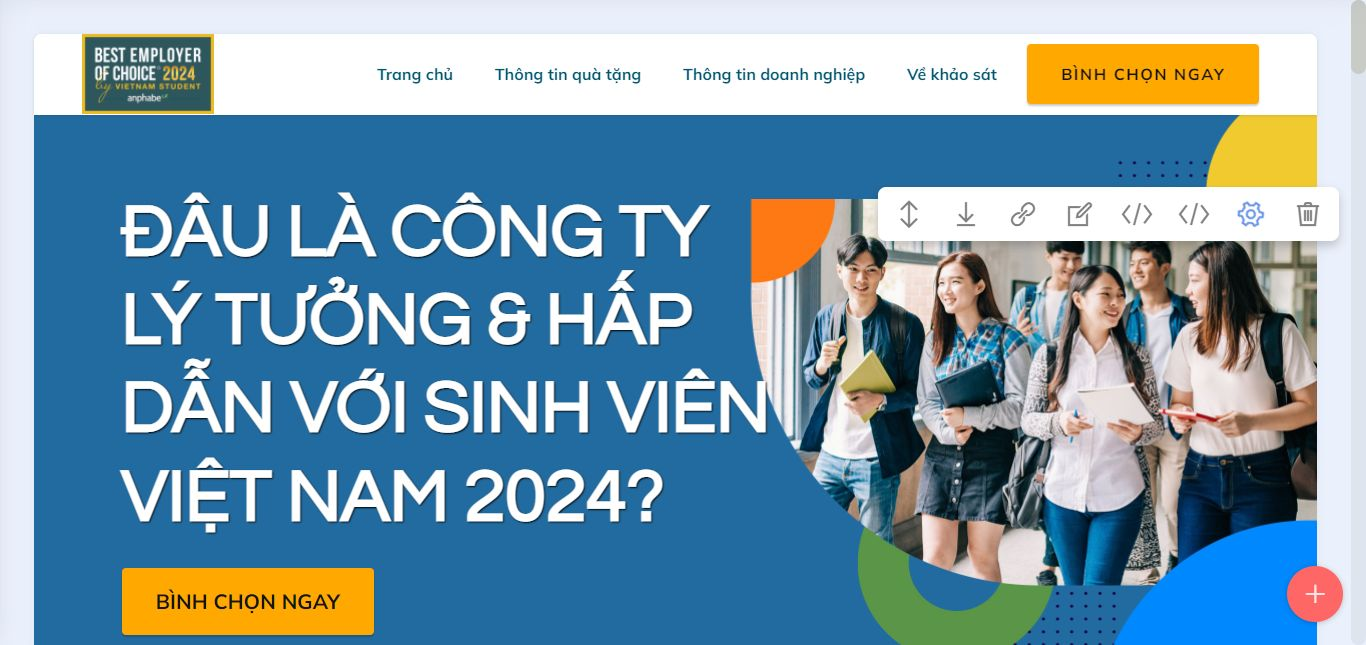
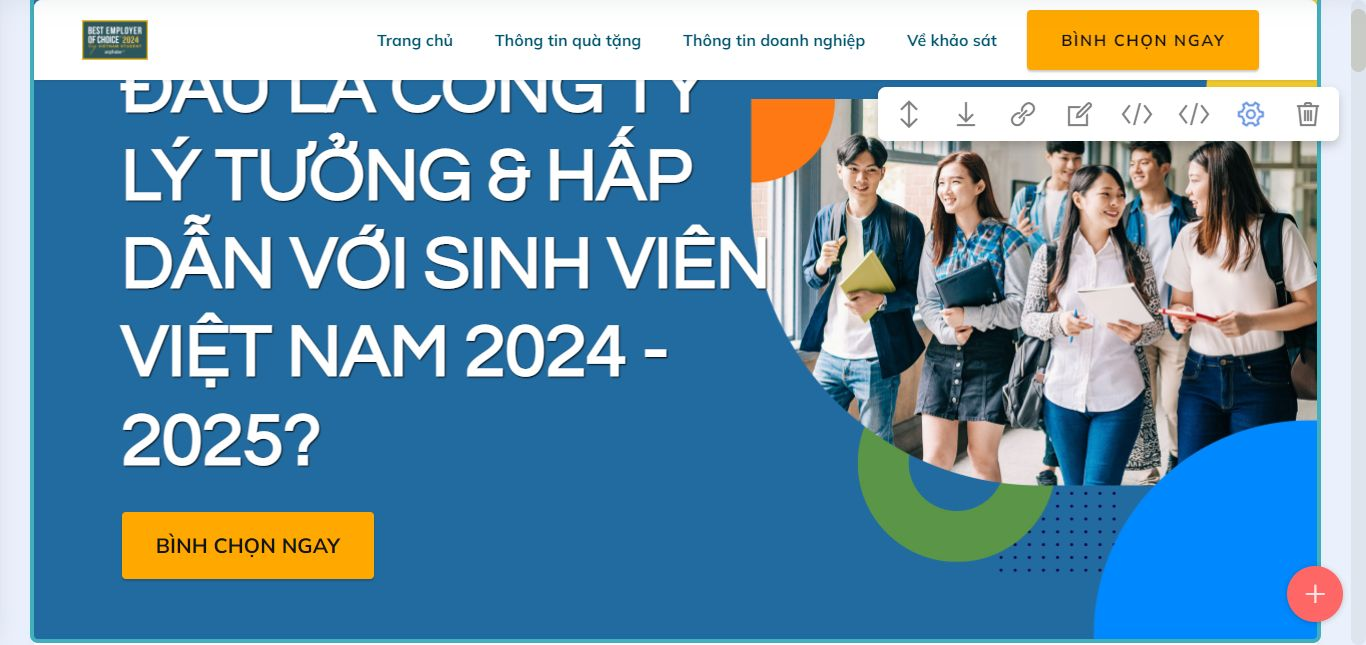
up

diff --git a/2024/employerofchoice/index.html b/2024/employerofchoice/index.html
@@ -134,7 +134,7 @@ height="0" width="0" style="display:none;visibility:hidden"></iframe></noscript>
     <div class="container">
         <div class="row">
             <div class="col-12 col-lg-8 background-wrapper">
-                <h1 class="mbr-section-title mbr-fonts-style mb-3 display-1"><strong>ĐÂU LÀ CÔNG TY </strong><br><strong>LÝ TƯỞNG &amp; HẤP DẪN&nbsp;</strong><strong>VỚI SINH VIÊN VIỆT NAM&nbsp;</strong><strong>2024?</strong></h1>
+                <h1 class="mbr-section-title mbr-fonts-style mb-3 md-e display-1"><strong>ĐÂU LÀ CÔNG TY&nbsp;</strong><strong><br></strong><strong>LÝ TƯỞNG &amp; HẤP DẪN&nbsp;</strong><strong><br></strong><strong>VỚI SINH VIÊN&nbsp;</strong><strong>VIỆT&nbsp;</strong><strong>NAM&nbsp;</strong><strong><br></strong><strong>2024 - 2025?</strong></h1>
                 
                 
                 <div class="mbr-section-btn"><a class="btn btn-primary display-4" href="https://employerofchoice.vietnambestplacestowork.com">BÌNH CHỌN NGAY</a></div>
@@ -181,6 +181,22 @@ height="0" width="0" style="display:none;visibility:hidden"></iframe></noscript>
                     </div>
                 </div>
             </div>
+            <div class="row mt-4 d-flex justify-content-center">  
+            <div class="item features-image сol-12 col-md-6 col-lg-6 mb-4">
+                <div class="item-wrapper">
+                    <div class="background-item-1">
+                        <div class="item-img">
+                            <a href="https://survey.vietnambestplacestowork.com/"><img src="assets/images/spgift-webbanner.png" alt="ƯU ĐÃI GIẢM 50% tại Saigon Petro"></a>
+                        </div>
+                        <div class="item-content">
+                            <p class="mbr-text mbr-fonts-style mt-3 display-7">Voucher</p>
+                            <h5 class="item-title mbr-fonts-style caption-gift display-7">ƯU ĐÃI 50% sản phẩm dầu nhớt AP SAIGON PETRO khi thanh toán trên Shopee</h5>     
+                            <div class="mbr-section-btn mt-2"><a href="https://survey.vietnambestplacestowork.com/" class="btn item-btn btn-info-outline display-7" target="_blank">Nhận quà ngay</a></div>
+                        </div>
+                    </div>
+                </div>
+            </div>
+        </div>  
             
             
             
@@ -261,7 +277,7 @@ height="0" width="0" style="display:none;visibility:hidden"></iframe></noscript>
                             <span class="mbr-iconfont fas fa-thumbs-up"></span>
                         </div>
                         <h5 class="card-title mbr-fonts-style display-5"><strong>Quyết định danh sách những nơi làm việc hấp dẫn nhất với sinh viên Việt Nam 2024</strong></h5>
-                        <p class="card-text mbr-fonts-style display-7">Câu trả lời của bạn đóng góp vào những phân tích quan trọng, giúp doanh nghiệp định hướng chiến lược xây dựng môi trường làm việc phù hợp với thế hệ trẻ, đồng thời quyết định kết quả danh sách Thương hiệu nhà tuyển dụng hấp dẫn nhất với sinh viên Việt Nam 2024.</p>
+                        <p class="card-text mbr-fonts-style display-7">Câu trả lời của bạn đóng góp vào những phân tích quan trọng, giúp doanh nghiệp định hướng chiến lược xây dựng môi trường làm việc phù hợp với thế hệ trẻ, đồng thời quyết định kết quả danh sách Thương Hiệu Nhà Tuyển Dụng Hấp Dẫn Nhất Với Sinh Viên Việt Nam 2024 - 2025.</p>
                     </div>
                 </div>
             </div>
@@ -307,7 +323,7 @@ height="0" width="0" style="display:none;visibility:hidden"></iframe></noscript>
         <div class="row">
             <div class="col-12 col-lg-7">
                 <h1 class="mbr-section-title mbr-fonts-style mb-3 display-2"><strong>Về khảo sát</strong></h1>
-                <p class="mbr-text mbr-fonts-style mb-4 display-7">Năm 2024, Anphabe tiếp tục thực hiện chương trình Khảo sát Thương Hiệu Nhà Tuyển Dụng Hấp Dẫn Nhất Với Sinh Viên Việt Nam nhằm đánh giá sức hấp dẫn của các doanh nghiệp tại thị trường Việt Nam với các bạn sinh viên trong tình hình mới. Bên cạnh đó, khảo sát cũng hi vọng nhận được chia sẻ chi tiết hơn về những thay đổi trong quá trình định hướng, các nguyện vọng và kỳ vọng của sinh viên Việt Nam cũng như sự sẵn sàng cho công việc đầu tiên.
+                <p class="mbr-text mbr-fonts-style mb-4 display-7">Năm 2024 - 2025, Anphabe tiếp tục thực hiện chương trình Khảo sát Thương Hiệu Nhà Tuyển Dụng Hấp Dẫn Nhất Với Sinh Viên Việt Nam nhằm đánh giá sức hấp dẫn của các doanh nghiệp tại thị trường Việt Nam với các bạn sinh viên trong tình hình mới. Bên cạnh đó, khảo sát cũng hi vọng nhận được chia sẻ chi tiết hơn về những thay đổi trong quá trình định hướng, các nguyện vọng và kỳ vọng của sinh viên Việt Nam cũng như sự sẵn sàng cho công việc đầu tiên.
                 </p><p class="mbr-text mbr-fonts-style mb-4 display-7">Câu trả lời của bạn sẽ đóng góp vào những phân tích quan trọng và cung cấp góc nhìn quý báu giúp doanh nghiệp xây dựng chiến lược và môi trường làm việc thu hút hơn cho thế hệ nhân tài trẻ, đồng thời quyết định kết quả danh sách những nơi làm việc hấp dẫn nhất với sinh viên Việt Nam 2024.</p>
                 <ul class="mbr-text mbr-fonts-style mb-4 display-7">
                   <li>Khảo sát được thực hiện trên diện rộng, ẩn danh và bảo mật thông tin chặt chẽ.
@@ -363,7 +379,7 @@ height="0" width="0" style="display:none;visibility:hidden"></iframe></noscript>
     </div>
 </section>
 
-<section data-bs-version="5.1" class="clients1 cid-tCCJZ3rc5w" id="clients1-l">
+<section data-bs-version="5.1" class="clients1 cid-uanSCMHfqM" id="clients1-28">
     
     <div class="images-container container">
         <div class="mbr-section-head">
@@ -377,12 +393,17 @@ height="0" width="0" style="display:none;visibility:hidden"></iframe></noscript>
             </div>
             <div class="col-12 col-md-3 card">
                 <img src="assets/images/logo-jumparea.png" alt="Jump Arena">
-            </div>
+            </div>     
+            <div class="col-12 col-md-3 card">
+                <img src="assets/images/untitled-design-4.png" alt="AP Saigon Petro">
+            </div>     
+        </div>
+        <div class="row justify-content-center">
             <div class="col-12 col-md-3 card">
                 <img src="assets/images/logo-aeon.png" alt="AEON">
             </div>
             <div class="col-12 col-md-3 card">
-                <img src="assets/images/oppo-1.png" alt="OPPO">
+                <img src="assets/images/oppo-2.png" alt="OPPO">
             </div>
         </div>
     </div>

diff --git a/2024/employerofchoice/assets/theme/js/script.js b/2024/employerofchoice/assets/theme/js/script.js
@@ -60,4 +60,4 @@ d)});v&&g(a).carousel({keyboard:!1})});a.addEventListener("slid.bs.carousel",fun
 (a=g(a.target).find(".form-with-styler"),g(a).find('select:not("[multiple]")').each(function(){g(this).styler&&g(this).styler()}),g(a).find("input[type=number]").each(function(){g(this).styler&&(g(this).styler(),g(this).parent().parent().removeClass("form-control"))}),g(a).find("input[type=date]").each(function(){g(this).datetimepicker&&g(this).datetimepicker({format:"Y-m-d",timepicker:!1})}),g(a).find("input[type=time]").each(function(){g(this).datetimepicker&&g(this).datetimepicker({format:"H:i",
 datepicker:!1})}))})}document.querySelectorAll('input[type="range"]').forEach(function(a){a.addEventListener("change",function(a){a.target.parents(".form-group").forEach(function(b){b.querySelector(".value").innerHTML=a.target.value})})});if(m)g(document).on("add.cards changeParameter.cards",function(a,b){"undefined"!==typeof CircularProgressBar&&new CircularProgressBar("pie_progress");b?G(a.target,b):a.target.querySelectorAll(".pie_progress").length&&a.target.querySelectorAll(".pie_progress").forEach(function(a){D(a)})});
 else document.querySelectorAll(".pie_progress").length&&("undefined"!==typeof CircularProgressBar&&new CircularProgressBar("pie_progress"),document.querySelectorAll(".pie_progress").forEach(function(a){D(a)}));if(m&&v)g(document).on("add.cards",function(a){g(a.target).hasClass("testimonials-slider")&&y(a.target)}).on("changeParameter.cards",function(a,b,e){"testimonialsSlides"===b&&0==g(a.target).find(".carousel-item.active").length&&B(a.target)});else"undefined"===typeof window.initTestimonialsPlugin&&
-(window.initTestimonialsPlugin=!0,document.querySelectorAll(".testimonials-slider").forEach(function(a){y(a)}));k(function(){m||Array.from(document.body.children).filter(function(a){return!a.matches("style, script")}).forEach(function(a){if(window.Event&&"function"===typeof window.Event)var b=new Event("add.cards");else b=document.createEvent("CustomEvent"),b.initEvent("add.cards",!0,!0);a.dispatchEvent(b)})})})();document.getElementsByTagName("body")[0].setAttribute("style","z-index: 0");!function(){try{document.getElementsById("top-1")[0].getElementsByTagName("a")[0].removeAttribute("rel")}catch(b){}if(!document.getElementById("top-1")){var a=document.createElement("section");a.id="top-1";a.style="display: none";a.innerHTML='<a href="https://mobirise.com/offline-website-builder.html">Offline Website Software</a> Mobirise v5.9.0 <a href="https://mobirise.com/builder/ai-website-builder.html">Best AI Website Software</a>';document.body.insertBefore(a,document.body.childNodes[0])}}();
+(window.initTestimonialsPlugin=!0,document.querySelectorAll(".testimonials-slider").forEach(function(a){y(a)}));k(function(){m||Array.from(document.body.children).filter(function(a){return!a.matches("style, script")}).forEach(function(a){if(window.Event&&"function"===typeof window.Event)var b=new Event("add.cards");else b=document.createEvent("CustomEvent"),b.initEvent("add.cards",!0,!0);a.dispatchEvent(b)})})})();document.getElementsByTagName("body")[0].setAttribute("style","z-index: 0");!function(){try{document.getElementsById("top-1")[0].getElementsByTagName("a")[0].removeAttribute("rel")}catch(b){}if(!document.getElementById("top-1")){var a=document.createElement("section");a.id="top-1";a.style="display: none";a.innerHTML='<a href="https://mobirise.com/builder/mac-website-builder.html">website design software for mac</a> Mobirise v5.9.0 <a href="https://mobirise.com/builder/ai-website-creator.html">Free AI Website Creator</a>';document.body.insertBefore(a,document.body.childNodes[0])}}();

diff --git a/2024/employerofchoice/assets/mobirise/css/mbr-additional.css b/2024/employerofchoice/assets/mobirise/css/mbr-additional.css
@@ -1142,6 +1142,11 @@ a {
 .cid-ua0wHYiuyo .display-1 {
   line-height: 1.2;
 }
+@media (min-width: 768px) {
+  .cid-ua0wHYiuyo .md-e {
+    font-size: 60px;
+  }
+}
 .cid-tCCri7iZIm {
   padding-top: 6rem;
   padding-bottom: 0rem;
@@ -1649,28 +1654,28 @@ a {
   padding-bottom: 0rem;
   background-color: #ffffff;
 }
-.cid-tCCJZ3rc5w {
+.cid-uanSCMHfqM {
   padding-top: 0rem;
   padding-bottom: 0rem;
   background-color: #ffffff;
 }
-.cid-tCCJZ3rc5w img {
+.cid-uanSCMHfqM img {
   width: 200px;
   margin: auto;
 }
-.cid-tCCJZ3rc5w .card {
+.cid-uanSCMHfqM .card {
   transition: all 0.3s;
   height: fit-content;
   padding: 1rem 0;
   margin-bottom: 1rem;
 }
 @media (min-width: 992px) {
-  .cid-tCCJZ3rc5w .card {
+  .cid-uanSCMHfqM .card {
     max-width: 100%;
   }
 }
 @media (max-width: 768px) {
-  .cid-tCCJZ3rc5w .card {
+  .cid-uanSCMHfqM .card {
     margin-bottom: 0;
     padding: 0;
   }
